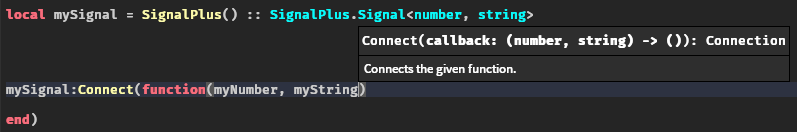
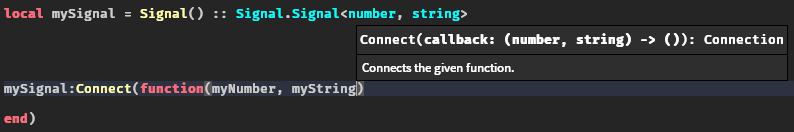
GITBOOK-10: No subject

diff --git a/documentation/getting-started/custom-types.md b/documentation/getting-started/custom-types.md
@@ -1,5 +1,19 @@
 ---
 icon: fill-drip
+layout:
+  width: default
+  title:
+    visible: true
+  description:
+    visible: false
+  tableOfContents:
+    visible: true
+  outline:
+    visible: true
+  pagination:
+    visible: true
+  metadata:
+    visible: true
 ---
 
 # Custom types
@@ -7,12 +21,12 @@ icon: fill-drip
 It's super easy to define custom types for your signals with Signal+.\
 This means you can have autocompletion for the [parameters](https://create.roblox.com/docs/tutorials/fundamentals/coding-2/use-parameters-and-events) in your signals:
 
-<div align="left"><figure><img src="../.gitbook/assets/Custom type example.png" alt="Parameter autocompletion example"><figcaption></figcaption></figure></div>
+<figure><img src="../.gitbook/assets/Custom type example.png" alt=""><figcaption></figcaption></figure>
 
 You can provide your own parameters as shown in the screenshot above:
 
 ```lua
-local mySignal = SignalPlus() :: SignalPlus.Signal<PARAMETERS_HERE>
+local mySignal = Signal() :: Signal.Signal<PARAMETERS_HERE>
 ```
 
-All methods ( `Connect`, `Once`, `Wait` and `Fire`) will display your desired parameters.
+All methods ( `Connect`, `Once`, `Wait`, and `Fire`) will display your desired parameters.

diff --git a/documentation/getting-started/introduction.md b/documentation/getting-started/introduction.md
@@ -1,18 +1,29 @@
+---
+layout:
+  width: default
+  title:
+    visible: true
+  description:
+    visible: false
+  tableOfContents:
+    visible: true
+  outline:
+    visible: true
+  pagination:
+    visible: true
+  metadata:
+    visible: true
+---
+
 # Introduction
 
 When you require the module, it will return a function, which you can use to create signals.\
 For example:
 
 ```lua
-local SignalPlus = require(script.SignalPlus)
+local Signal = require(path.to.SignalPlus)
 
-local signal = SignalPlus() -- Creates a new signal.
+local signal = Signal() -- Creates a new signal.
 ```
 
-
-
-You can then use methods to control and fire connections on the signal — just like BindableEvents.
-
-{% hint style="warning" %}
-The order in which connections are fired is reliable (consistent), but backwards.
-{% endhint %}
+You can then use methods to control and fire connections on the signal — just like BindableEvents and other signal alternatives.

diff --git a/documentation/getting-started/api-reference.md b/documentation/getting-started/api-reference.md
@@ -1,5 +1,19 @@
 ---
 icon: list
+layout:
+  width: default
+  title:
+    visible: true
+  description:
+    visible: false
+  tableOfContents:
+    visible: true
+  outline:
+    visible: true
+  pagination:
+    visible: true
+  metadata:
+    visible: true
 ---
 
 # API Reference
@@ -14,8 +28,6 @@ icon: list
 | Fire          | Method | Fires all callbacks and resumes all waiting threads.                                                                        |
 | DisconnectAll | Method | Disconnects all connections.                                                                                                |
 | Destroy       | Method | Disconnects all connections, and makes the signal unusable.                                                                 |
-
-
 
 ## Connection:
 
